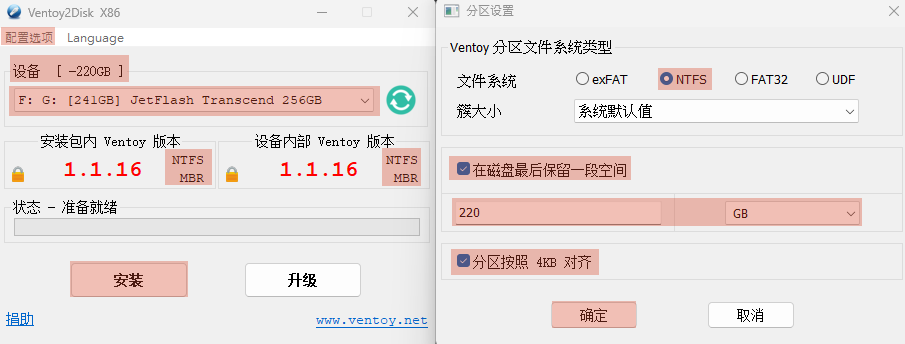
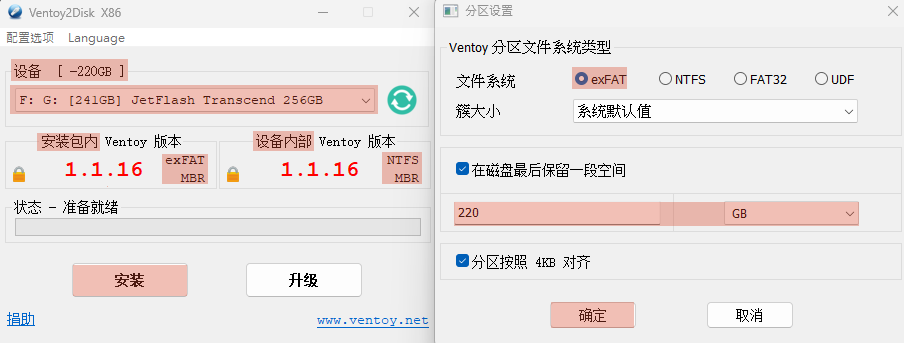
update somethings

diff --git a/docs/offline_image.md b/docs/offline_image.md
@@ -4,16 +4,16 @@
 <br>
 
 ### *A.　⭐ 事前準備*
-- #### *1. 大容量空白隨身碟*
+- #### *1.　大容量空白隨身碟*
   - #### *建立 Clonezilla 開機碟 ( 啟動隨身碟 ➔ To-RAM )*
   - #### *建立 儲存備份出來的映像檔資料夾 ( 兼存放映像檔 )*
   - #### *容量至少 225GB ( 視當前系統碟大小而定 )*
   - #### *無須手動格式化*
 
-- #### *⭐ 2. Ventoy 分區軟體 ➔ 分區 [ exFAT 開機 ] + [ NTFS 儲存 ]*
+- #### *2.　Ventoy 分區軟體 ➔ 分區 [ exFAT 開機 ] + [ NTFS 儲存 ]*
   - #### *將 Clonezilla ISO 檔複製到隨身碟*
 
-- #### *3. 鏡像前系統瘦身*
+- #### *3.　鏡像前系統瘦身*
   ```
   # 清理系統元件 (WinSxS): 掃描並清除被取代的 Windows 元件 (此動作不可逆，清理完後無法解除安裝過往更新)
   dism /online /cleanup-image /startcomponentcleanup /resetbase
@@ -25,7 +25,7 @@
 <br>
 
 ### *B.　操作手冊*
-- #### *1. 製作啟動隨身碟 ( Rescue Media )*
+- #### *1.　製作啟動隨身碟 ( Rescue Media )*
   > ⚠️ **注意：此步驟會格式化隨身碟，請先備份隨身碟內資料**
   * [x] 1 官網下載 _**[Clonezilla 穩定發行版 ISO 映像檔](https://clonezilla.nchc.org.tw/clonezilla-live/download/)**_
   * [x] 2 插上隨身碟，開啟工具 _**[Ventoy2Disk.exe](https://www.ventoy.net/en/download.html)**_ 進行分區切割
@@ -42,7 +42,7 @@
 
 <br>
 
-- #### *2. 創建鏡像 ( 備份系統碟 )*
+- #### *2.　創建鏡像 ( 備份系統碟 )*
   > 💡 準備動作：插上啟動隨身碟 + 重啟電腦 + 離線備份原則 ( 拔除網路線 )
   * [x] 1 先行解密系統碟： **`./scripts/disable_c_bit_locker.ps1`**
   * [x] 2 進入 Clonezilla 前，務必執行 **`manage-bde -status C:`**，確認狀態為 **`已解除保護（Fully Decrypted）`**
@@ -83,7 +83,7 @@
 
 <br>
 
-- #### *3. 還原鏡像 ( 災難發生 )*
+- #### *3.　還原鏡像 ( 災難發生 )*
   > 💡 準備動作：同樣用隨身碟開機引導 (選擇 To-RAM 選擇同時存放其中的映像檔)
   * [ ] 1 重複上述的步驟（創建鏡像）`3` 到 `6`，讓 Clonezilla 掛載 **`隨身碟`**
   * [ ] 2 進入模式時選 **`Beginner 初學模式`**，但改選 **`restoredisk（還原映像檔到本機硬碟 # 用容量大小識別 否則洗到資料碟 你會哭死）`**